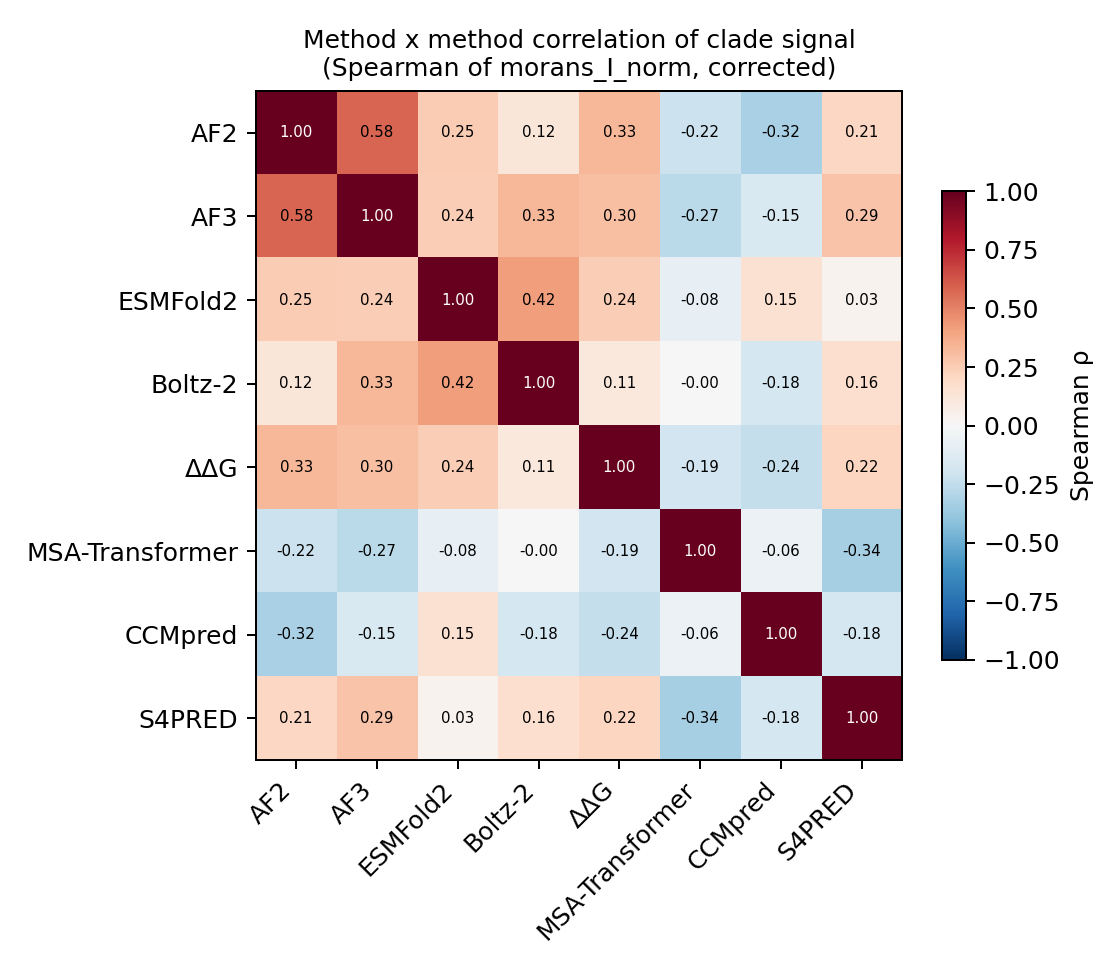
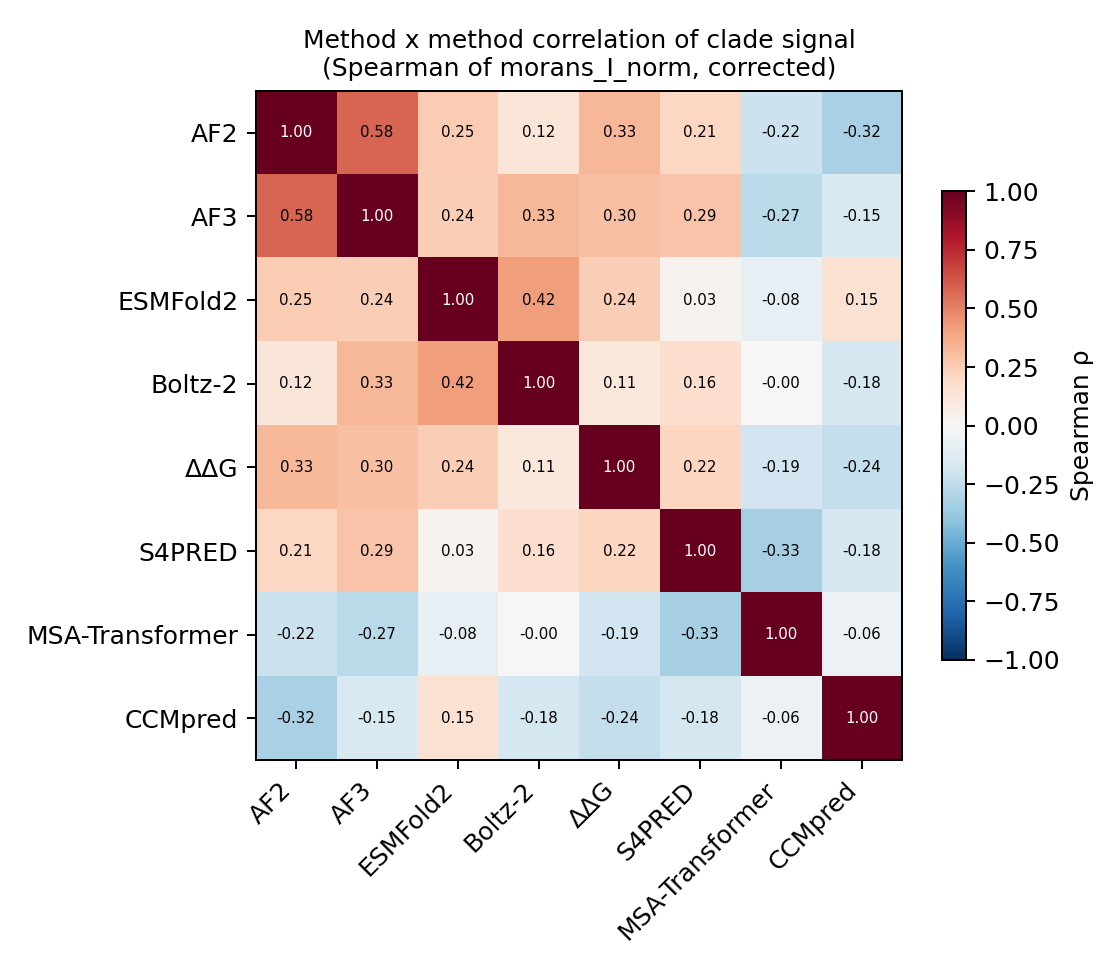
methods: reorder (weak contact methods last), median row-sort, bound I_norm
- METHOD_ORDER now ...DDG, S4PRED, MSAT, CCMpred (sparse/noisy contact-based
  methods last; S4PRED before them). Propagates to every global plot/table.
- Clade heatmap sorts pairs by MEDIAN signal across methods (robust to the
  noisy methods) instead of mean; configurable via row_sort.
- Fix |I_norm|>1 on tiny/degenerate pairs (MSAT/CCMpred): the achievable-extreme
  permutation search now also seeds from the actual data arrangement and does a
  two-sided 2-opt (ascent for max, descent for min). Data-seeded ascent reaches
  I>=I_obs and descent <=I_obs, so max_perm>=I_obs>=min_perm by construction;
  I_norm is normalized by the achievable range on its own side, giving a true
  fraction of clade signal in [-1,1] (no heuristic-underestimate overshoot).
  plot_global clips defensively so existing CSVs render bounded until recomputed.

diff --git a/docs/pairs_global_analysis.html b/docs/pairs_global_analysis.html
@@ -30,7 +30,7 @@ fold-switching pair set. Each figure is described above it.</p>
 </section>
 <section class="fig">
   <h2>Phylogenetic clade signal — method × pair</h2>
-  <p class="caption">Sequence-divergence-corrected clade signal (Moran&#x27;s I_norm) for every method (columns) and fold-switch pair (rows). Red = clusters that prefer the same fold are phylogenetically grouped (clade-structured); blue = anti-structured; white ≈ none. Rows are sorted by the mean signal across all methods, so the most clade-structured pairs sit at the top. Signal is weak overall — few cells exceed I_norm ≈ 0.2.</p>
+  <p class="caption">Sequence-divergence-corrected clade signal (Moran&#x27;s I_norm) for every method (columns) and fold-switch pair (rows). Red = clusters that prefer the same fold are phylogenetically grouped (clade-structured); blue = anti-structured; white ≈ none. Rows are sorted by the median signal across methods (robust to the sparse, noisy contact-based methods), so the most clade-structured pairs sit at the top. Signal is weak overall — few cells exceed I_norm ≈ 0.2.</p>
   <img loading="lazy" src="figures/global/global_morans_method_x_pair.png" alt="Phylogenetic clade signal — method × pair"/>
 </section>
 <section class="fig">

diff --git a/utils/plot_global.py b/utils/plot_global.py
@@ -43,9 +43,10 @@ GLOBAL_FIGURE_SPEC = [
             "Sequence-divergence-corrected clade signal (Moran's I_norm) for every "
             "method (columns) and fold-switch pair (rows). Red = clusters that "
             "prefer the same fold are phylogenetically grouped (clade-structured); "
-            "blue = anti-structured; white ≈ none. Rows are sorted by the mean "
-            "signal across all methods, so the most clade-structured pairs sit at "
-            "the top. Signal is weak overall — few cells exceed I_norm ≈ 0.2.",
+            "blue = anti-structured; white ≈ none. Rows are sorted by the median "
+            "signal across methods (robust to the sparse, noisy contact-based "
+            "methods), so the most clade-structured pairs sit at the top. Signal "
+            "is weak overall — few cells exceed I_norm ≈ 0.2.",
     },
     {
         "file": "figures/global/global_method_correlation.png",
@@ -157,6 +158,13 @@ def _load_phylo(labels: str = "corrected"):
         print(f"[global] no {fn}; skipping Moran's plots.")
         return None, None
     d = pd.read_csv(path)
+    # I_norm is a fraction of achievable clade signal and is bounded to [-1, 1].
+    # Older CSVs (pre ceiling-clamp fix in phylo_placement.py) can carry a few
+    # |I_norm|>1 values from the heuristic max_perm underestimating the true
+    # ceiling on tiny/sparse pairs (MSAT/CCMpred). Clip defensively so figures
+    # never show impossible values; harmless once the source CSV is regenerated.
+    if "morans_I_norm" in d.columns:
+        d["morans_I_norm"] = pd.to_numeric(d["morans_I_norm"], errors="coerce").clip(-1.0, 1.0)
     for m in ("morans_I_norm", "morans_z", "morans_I"):
         if m in d.columns and d[m].notna().any():
             return d, m
@@ -165,11 +173,14 @@ def _load_phylo(labels: str = "corrected"):
     return None, None
 
 
-def plot_method_clade_heatmap(output_dir: str, labels: str = "corrected") -> None:
+def plot_method_clade_heatmap(output_dir: str, labels: str = "corrected",
+                              row_sort: str = "median") -> None:
     """Methods x pairs heatmap of clade-signal strength (effect size / z).
 
-    Rows (pairs) are sorted by the MEAN signal across methods (descending), so the
-    most clade-structured pairs rise to the top independent of any single method.
+    Rows (pairs) are sorted by a method-agnostic summary of the signal across
+    methods (descending), so the most clade-structured pairs rise to the top.
+    `row_sort` = "median" (default, robust to a couple of noisy methods like
+    MSA-Transformer/CCMpred), "mean", or "max".
     """
     d, metric = _load_phylo(labels)
     if d is None:
@@ -181,9 +192,11 @@ def plot_method_clade_heatmap(output_dir: str, labels: str = "corrected") -> Non
     win = wide.idxmax(axis=1).value_counts()
     print(f"[global] strongest method per pair ({metric}): "
           + ", ".join(f"{m}:{int(win.get(m,0))}" for m in cols))
-    # Method-agnostic ordering: mean signal across methods, strongest at top.
-    w = wide.assign(_mean=wide.mean(axis=1, skipna=True)).sort_values(
-        "_mean", ascending=False).drop(columns="_mean")
+    # Method-agnostic ordering: median (robust) / mean / max across methods.
+    agg_fn = {"median": wide.median, "mean": wide.mean, "max": wide.max}.get(
+        row_sort, wide.median)
+    w = wide.assign(_key=agg_fn(axis=1, skipna=True)).sort_values(
+        "_key", ascending=False).drop(columns="_key")
     M = w.to_numpy(dtype=float)
     vlim = float(np.nanpercentile(np.abs(M), 98)) or 1.0
     fig, ax = plt.subplots(figsize=(6, max(4, 0.16 * len(w))))
@@ -192,7 +205,7 @@ def plot_method_clade_heatmap(output_dir: str, labels: str = "corrected") -> Non
                                                         rotation=45, ha="right")
     ax.set_yticks(range(len(w))); ax.set_yticklabels(w.index, fontsize=4)
     ax.set_title(f"Clade signal per method x pair ({metric}, {labels})\n"
-                 f"rows = pairs, sorted by mean signal across methods",
+                 f"rows = pairs, sorted by {row_sort} signal across methods",
                  fontsize=10)
     fig.colorbar(im, ax=ax, shrink=0.6, label=metric)
     fig.tight_layout()

diff --git a/scripts/phylo_placement.py b/scripts/phylo_placement.py
@@ -630,23 +630,50 @@ def morans_I_test(tree, leaf_values: Dict[str, Optional[float]],
         Mc = Pc @ M @ Pc
         evals, evecs = np.linalg.eigh(Mc)
         lam_max = float(evals[-1])
-        v = evecs[:, -1]
-        arr = np.empty(nn)
-        arr[np.argsort(v)] = np.sort(xc)                     # align sorted vals to sorted v
-        for _ in range(60):                                  # capped steepest-ascent 2-opt
-            f = M @ arr
-            DZ = arr[None, :] - arr[:, None]
-            DF = f[:, None] - f[None, :]
-            dN = 2.0 * DZ * DF - 2.0 * (DZ ** 2) * M
-            np.fill_diagonal(dN, -np.inf)
-            a, b = np.unravel_index(int(np.argmax(dN)), dN.shape)
-            if dN[a, b] <= 1e-12:
-                break
-            arr[a], arr[b] = arr[b], arr[a]
-        max_perm_I = float(arr @ (M @ arr)) / den
+
+        def _two_opt(seed, maximize):
+            """Capped steepest-ascent/-descent 2-opt on the quadratic form
+            arr @ M @ arr; returns the optimized Moran's-I value."""
+            arr = np.array(seed, dtype=float)
+            for _ in range(60):
+                f = M @ arr
+                DZ = arr[None, :] - arr[:, None]
+                DF = f[:, None] - f[None, :]
+                dN = 2.0 * DZ * DF - 2.0 * (DZ ** 2) * M    # delta of form on swap (a,b)
+                if maximize:
+                    np.fill_diagonal(dN, -np.inf)
+                    a, b = np.unravel_index(int(np.argmax(dN)), dN.shape)
+                    if dN[a, b] <= 1e-12:
+                        break
+                else:
+                    np.fill_diagonal(dN, np.inf)
+                    a, b = np.unravel_index(int(np.argmin(dN)), dN.shape)
+                    if dN[a, b] >= -1e-12:
+                        break
+                arr[a], arr[b] = arr[b], arr[a]
+            return float(arr @ (M @ arr)) / den
+
+        # Seed the search from BOTH the spectral guess (top/bottom eigenvector)
+        # AND the actual data arrangement. Ascending from the data is guaranteed
+        # to reach I >= I_obs (and descending <= I_obs), so the data-seeded run
+        # alone makes max_perm >= I_obs >= min_perm by construction -- no clamp,
+        # no |I_norm|>1 on tiny/degenerate pairs (few clusters: MSAT/CCMpred).
+        seed_top = np.empty(nn); seed_top[np.argsort(evecs[:, -1])] = np.sort(xc)
+        seed_bot = np.empty(nn); seed_bot[np.argsort(evecs[:, 0])]  = np.sort(xc)
+        max_perm_I = max(_two_opt(seed_top, True),  _two_opt(xc, True))
+        min_perm_I = min(_two_opt(seed_bot, False), _two_opt(xc, False))
+
+        # Normalize by the achievable range on the side I_obs falls -- positive
+        # signal against the reachable max, negative against the reachable min --
+        # so I_norm is a true fraction of achievable clade signal in [-1, 1].
         Emean = -1.0 / (nn - 1)
-        denom = max_perm_I - Emean
+        if I_obs >= Emean:
+            denom = max_perm_I - Emean
+        else:
+            denom = Emean - min_perm_I
         I_norm = (I_obs - Emean) / denom if denom > 1e-9 else float("nan")
+        if np.isfinite(I_norm):
+            I_norm = float(np.clip(I_norm, -1.0, 1.0))   # belt-and-suspenders
         res.update({
             "morans_lambda_max": round(lam_max, 4),
             "morans_max_perm": round(max_perm_I, 4),

diff --git a/utils/method_labels.py b/utils/method_labels.py
@@ -11,7 +11,10 @@ Usage:
 """
 
 # Canonical left-to-right / top-to-bottom order for every cross-method plot.
-METHOD_ORDER = ["AF2", "AF3", "ESM", "Boltz2", "DDG", "MSAT", "CCMpred", "S4PRED"]
+# Ordered roughly strongest/most-informative -> weakest: the structure
+# predictors first, then DDG and S4PRED, then the sparse, noisy contact-based
+# methods (MSA-Transformer, CCMpred) last.
+METHOD_ORDER = ["AF2", "AF3", "ESM", "Boltz2", "DDG", "S4PRED", "MSAT", "CCMpred"]
 
 # KEY -> human display string. Unicode (Δ = U+0394) renders in both matplotlib
 # (DejaVu Sans) and HTML, so a single string serves every output target.
